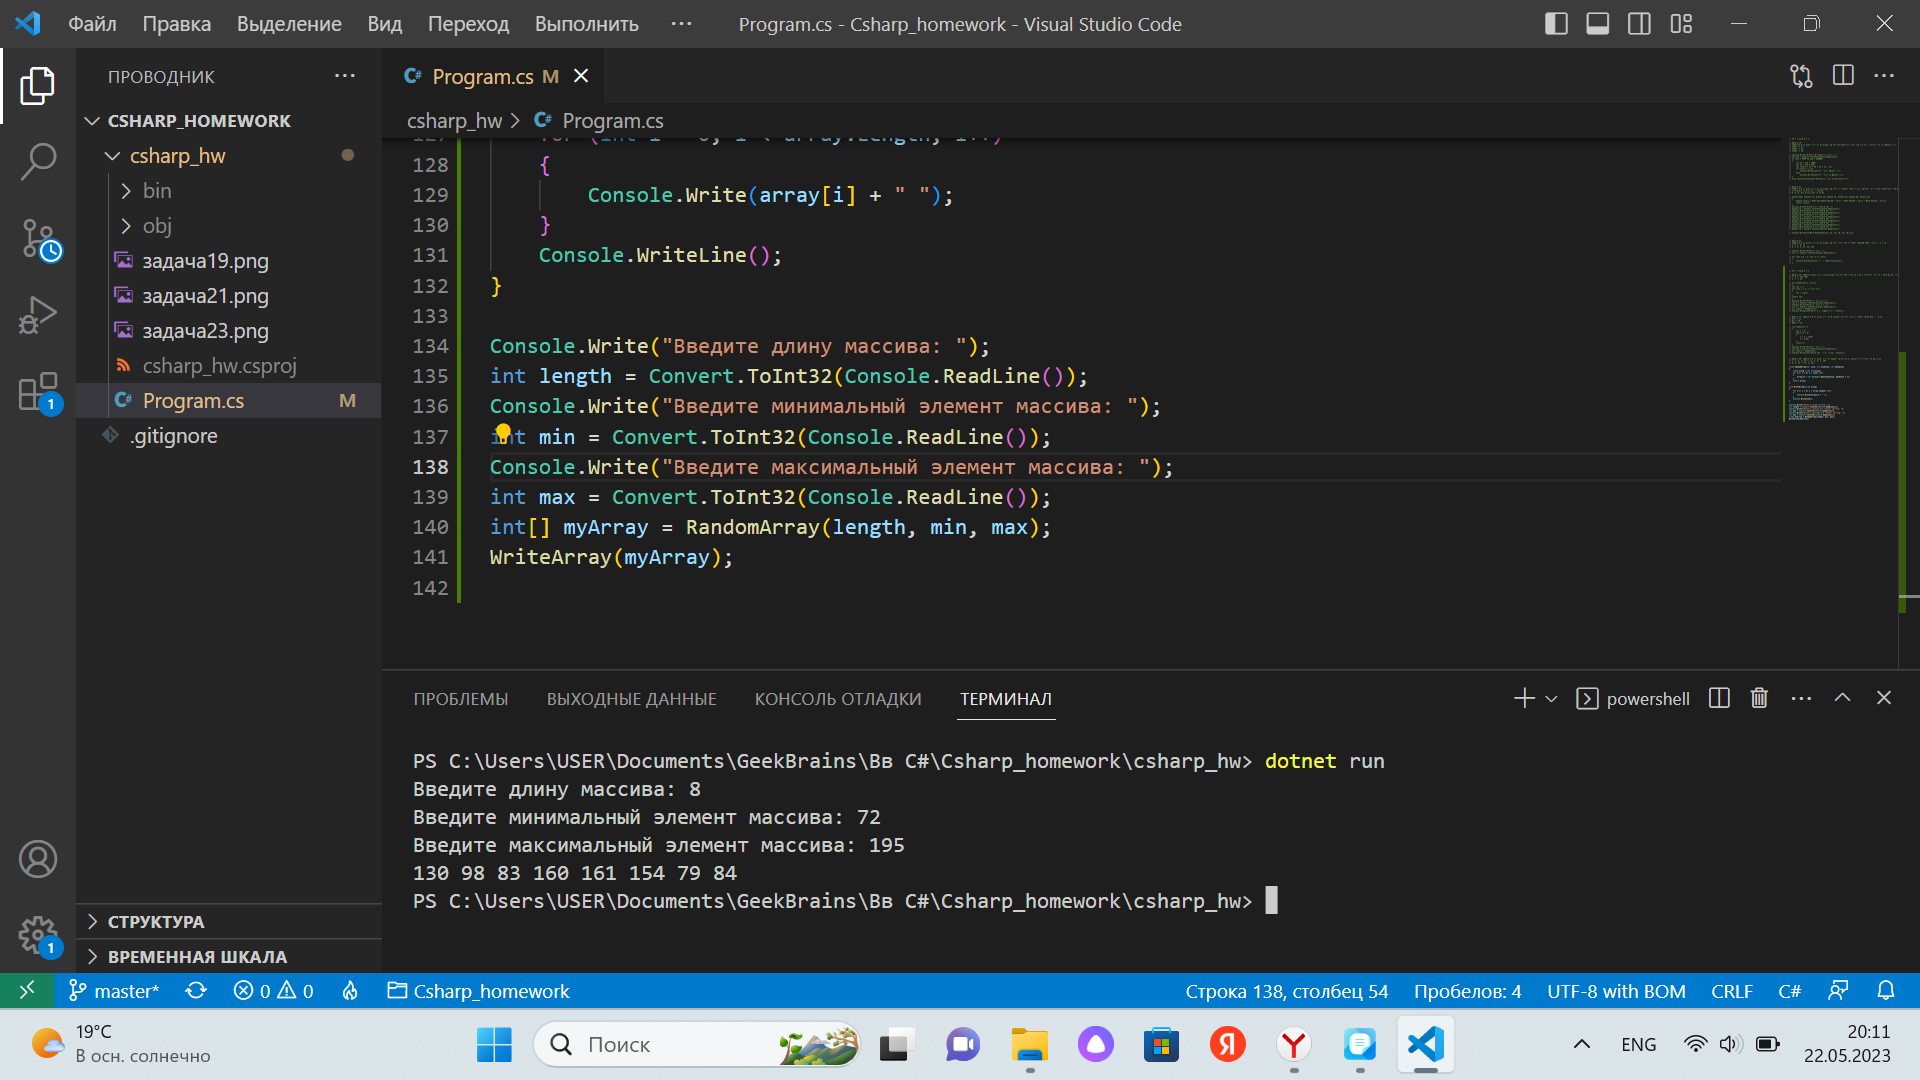
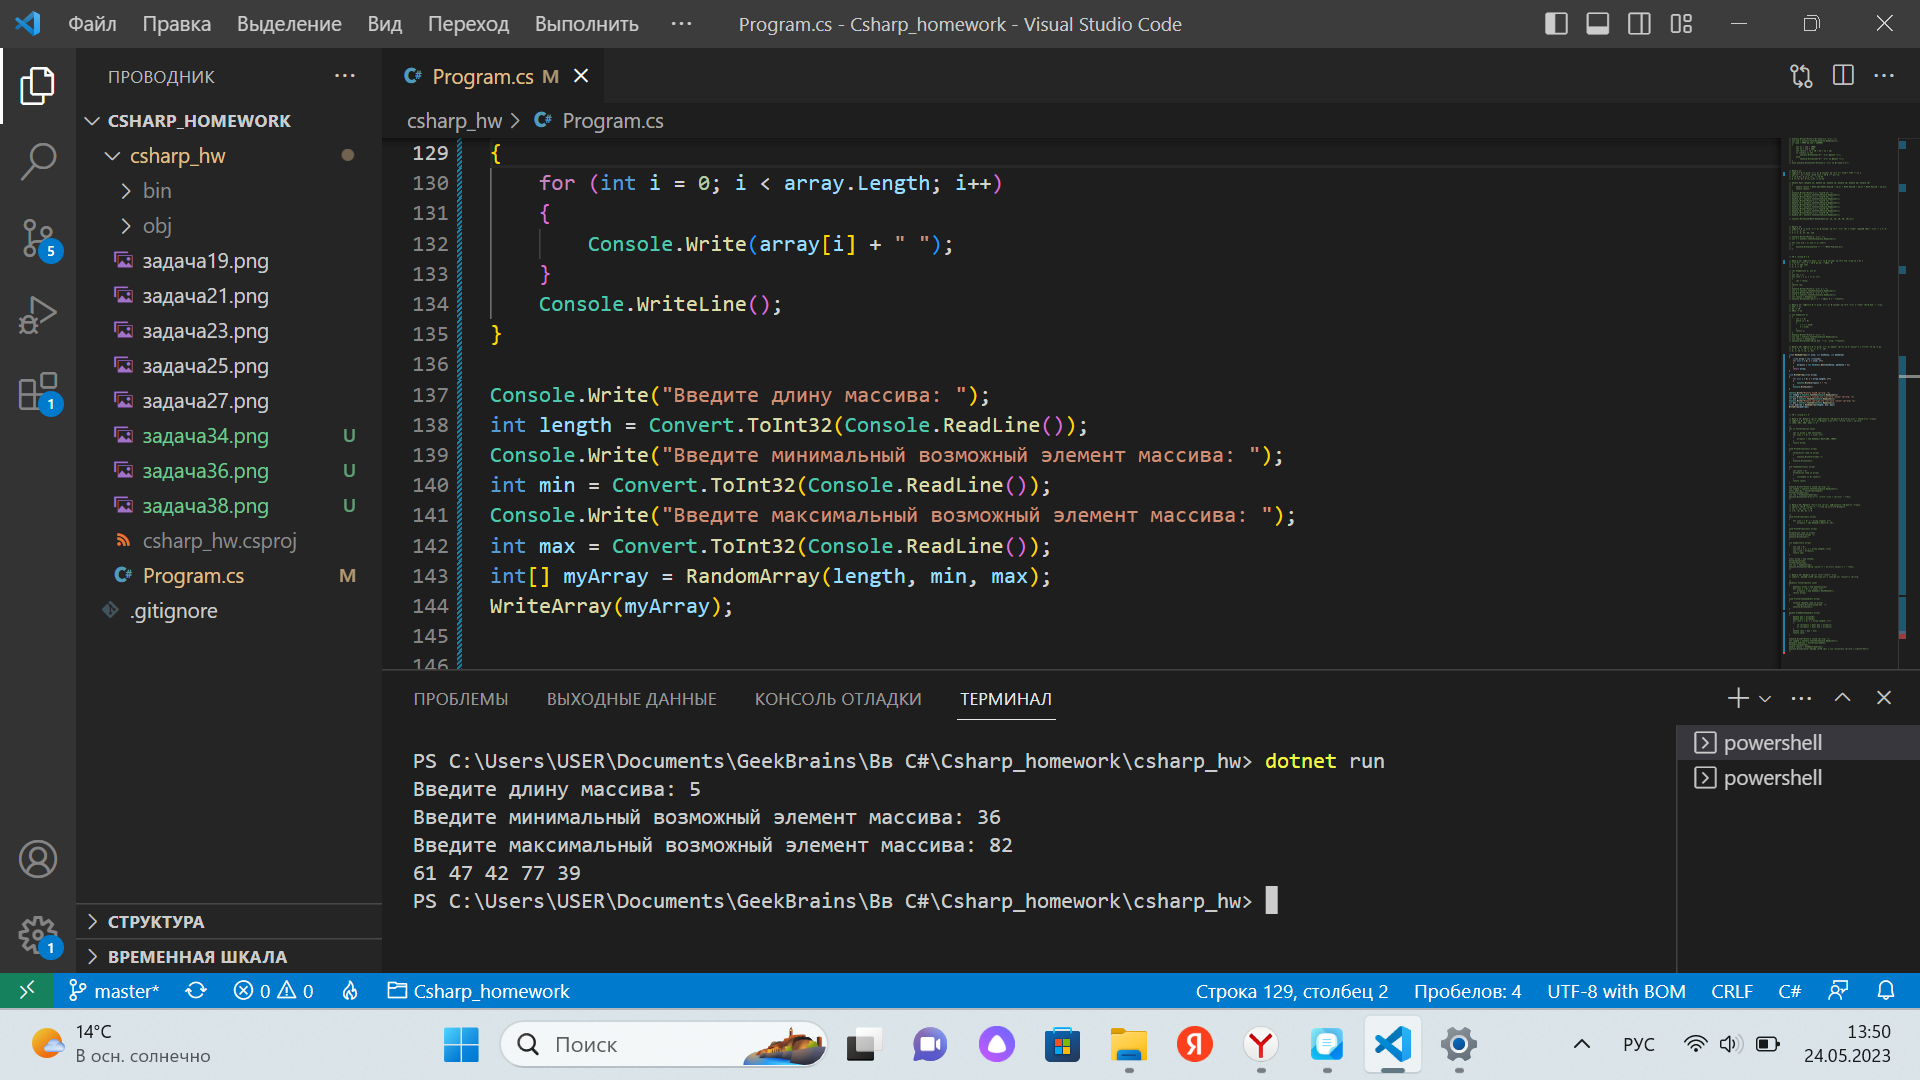
Добавлено ДЗ к семинару № 5 со скринами

diff --git a/csharp_hw/Program.cs b/csharp_hw/Program.cs
@@ -1,7 +1,8 @@
 // ДЗ к семинару № 3
 
 // Задача 19
-// Напишите программу, которая принимает на вход пятизначное число и проверяет, является ли оно палиндромом. Через строку решать нельзя.
+// Напишите программу, которая принимает на вход пятизначное число и проверяет, 
+// является ли оно палиндромом. Через строку решать нельзя.
 // 14212 -> нет
 // 12821 -> да
 // 23432 -> да
@@ -23,7 +24,8 @@
 
 
 // Задача 21
-// Напишите программу, которая принимает на вход координаты двух точек и находит расстояние между ними в 3D пространстве.
+// Напишите программу, которая принимает на вход координаты двух точек и 
+// находит расстояние между ними в 3D пространстве.
 // A (3,6,8); B (2,1,-7), -> 15.84
 // A (7,-5, 0); B (1,-1,9) -> 11.53
 
@@ -66,7 +68,8 @@
 
 // ДЗ к семинару № 4
 
-// Задача 25: Напишите цикл, который принимает на вход два числа (A и B) и возводит число A в натуральную степень B.
+// Задача 25: Напишите цикл, который принимает на вход два числа (A и B) и 
+// возводит число A в натуральную степень B.
 // 3, 5 -> 243 (3⁵)
 // 2, 4 -> 16
 
@@ -112,30 +115,153 @@
 // 1, 2, 5, 7, 19 -> [1, 2, 5, 7, 19]
 // 6, 1, 33 -> [6, 1, 33]
 
-// int[] RandomArray(int size, int minValue, int maxValue)
-// {
-//     int[] array = new int[size];
-//     for (int i = 0; i < size; i++)
-//     {
-//         array[i] = new Random().Next(minValue, maxValue + 1);
-//     }
-//     return array;
-// }
+/*
+int[] RandomArray(int size, int minValue, int maxValue)
+{
+    int[] array = new int[size];
+    for (int i = 0; i < size; i++)
+    {
+        array[i] = new Random().Next(minValue, maxValue + 1);
+    }
+    return array;
+}
 
-// void WriteArray(int[] array)
-// {
-//     for (int i = 0; i < array.Length; i++)
-//     {
-//         Console.Write(array[i] + " ");
-//     }
-//     Console.WriteLine();
-// }
+void WriteArray(int[] array)
+{
+    for (int i = 0; i < array.Length; i++)
+    {
+        Console.Write(array[i] + " ");
+    }
+    Console.WriteLine();
+}
 
-// Console.Write("Введите длину массива: ");
-// int length = Convert.ToInt32(Console.ReadLine());
-// Console.Write("Введите минимальный элемент массива: ");
-// int min = Convert.ToInt32(Console.ReadLine());
-// Console.Write("Введите максимальный элемент массива: ");
-// int max = Convert.ToInt32(Console.ReadLine());
-// int[] myArray = RandomArray(length, min, max);
-// WriteArray(myArray);
+Console.Write("Введите длину массива: ");
+int length = Convert.ToInt32(Console.ReadLine());
+Console.Write("Введите минимальный возможный элемент массива: ");
+int min = Convert.ToInt32(Console.ReadLine());
+Console.Write("Введите максимальный возможный элемент массива: ");
+int max = Convert.ToInt32(Console.ReadLine());
+int[] myArray = RandomArray(length, min, max);
+WriteArray(myArray);
+*/
+
+
+// ДЗ к семинару № 5
+
+// Задача 34: Задайте массив заполненный случайными положительными трёхзначными числами. 
+// Напишите программу, которая покажет количество чётных чисел в массиве.
+// [345, 897, 568, 234] -> 2
+
+/*
+int [] FillArray(int size)
+{
+    int [] array = new int[size];
+    for (int i = 0; i < size; i++)
+    {
+        array[i] = new Random().Next(100, 1000);
+    }
+    return array;
+}
+
+void PrintArray(int[] array)
+{
+    foreach(int item in array)
+    {
+        Console.Write($"{item} ");
+    }
+    Console.WriteLine();
+}
+
+int FindCount(int[] array)
+{
+    int count = 0;
+    foreach(int item in array)
+    {
+        if(item%2 == 0) count++;
+    }
+    return count;
+}
+
+Console.Write("Введите длину массива: ");
+int length = Convert.ToInt32(Console.ReadLine());
+int[] myArray = FillArray(length);
+PrintArray(myArray);
+int rez = FindCount(myArray);
+Console.WriteLine("Количество четных чисел в массиве: " +rez);
+*/
+
+
+// Задача 36: Задайте одномерный массив, заполненный случайными числами. 
+// Найдите сумму элементов, стоящих на нечётных позициях.
+// [3, 7, 23, 12] -> 19
+// [-4, -6, 89, 6] -> 0
+
+/*
+void FillArray(int[] array)
+{
+    for (int i = 0; i < array.Length; i++)
+        array[i] = new Random().Next(-9, 10);
+}
+
+void PrintArray(int[] array)
+{
+foreach(int item in array)
+Console.Write($"{item} ");
+Console.WriteLine();
+}
+
+int Summa(int[] array)
+{
+    int sum = 0;
+    for(int i = 1; i < array.Length; i+=2)
+    sum = sum + array[i];
+    return sum;
+}
+
+int[] array = new int[6];
+FillArray(array);
+PrintArray(array);
+int rez = Summa(array);
+Console.WriteLine("Сумма элементов с нечетным индексом = " +rez);
+*/
+
+
+// Задача 38: Задайте массив вещественных чисел. 
+// Найдите разницу между максимальным и минимальным элементов массива.
+
+/*
+double[] FillArray(int size)
+{
+    double[] array = new double[size];
+    for (int i = 0; i < size; i++)
+        array[i] = new Random().NextDouble();
+    return array;
+}
+
+void PrintArray(double[] array)
+{
+    foreach (double item in array) 
+        Console.Write($"{item:F2}  "); 
+    Console.WriteLine();
+}
+
+double FindRasn(double[] array)
+{
+    double max = array[0];
+    double min = array[0];
+    for (int i = 0; i < array.Length; i++)
+    {
+        if (array[i] > max) max = array[i];
+        if (array[i] < min) min = array[i];
+    }
+    double rasn = max - min;
+    return rasn;
+}
+
+Console.Write("Введите длину массива: ");
+int length = Convert.ToInt32(Console.ReadLine());
+double[] myArray = FillArray(length);
+PrintArray(myArray);
+double result = FindRasn(myArray);
+Console.WriteLine($"Разница между макс и мин элементами массива = {result:F2}");
+*/
